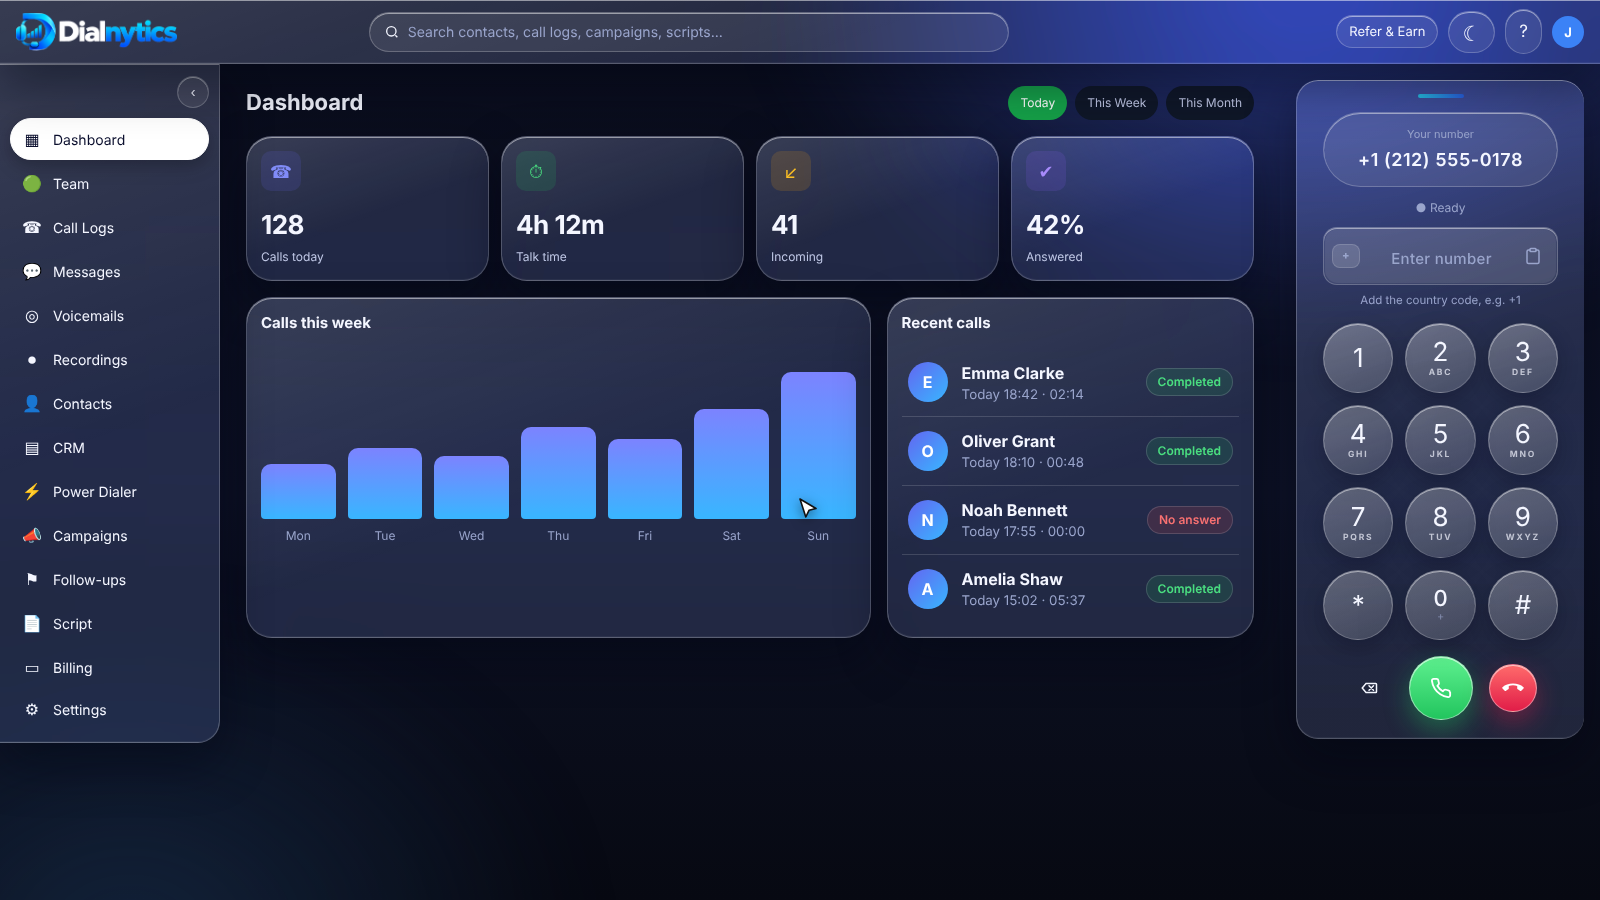
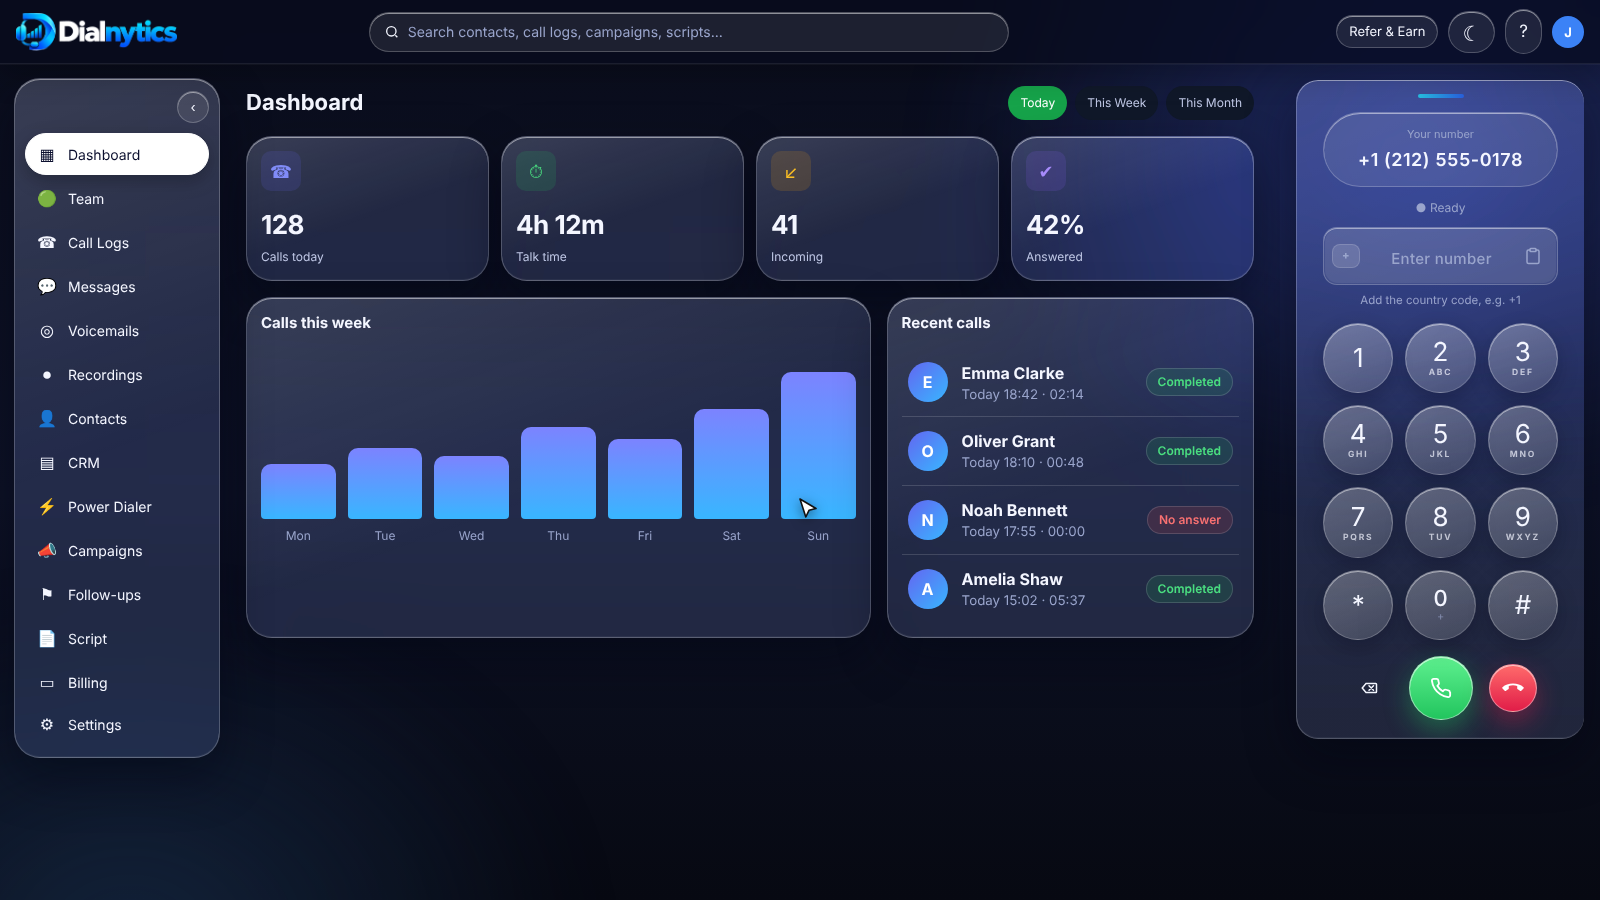
Add files via upload

Changed region(s): [[0.0, 0.0, 1.0, 0.84], [0.8125, 0.1867, 1.0, 0.4356]]

diff --git a/Dialnytics/frontend/static/css/glass.css b/Dialnytics/frontend/static/css/glass.css
@@ -337,3 +337,13 @@ body.glass-ui .dial-rail .your-number{border-radius:999px !important}
   body.glass-ui .dial-rail #dialPad .dial-btn{-webkit-backdrop-filter:none;backdrop-filter:none;background:rgba(40,48,90,.95) !important}
   body.glass-ui.light-theme .dial-rail #dialPad .dial-btn{background:#fff !important}
 }
+
+/* v4.1: calmer header (no blue band, logo readable) + floating sidebar card */
+body.glass-ui .shell-top{background-color:rgba(9,12,26,.78) !important;background-image:none !important;
+  border-bottom:1px solid rgba(255,255,255,.08) !important;box-shadow:0 1px 0 rgba(255,255,255,.04),0 10px 30px rgba(0,0,0,.25) !important}
+body.glass-ui.light-theme .shell-top{background-color:rgba(255,255,255,.82) !important;border-bottom:1px solid rgba(16,22,58,.06) !important;box-shadow:0 10px 30px rgba(40,50,120,.08) !important}
+body.glass-ui::before{top:-200px;right:-320px;width:1000px;height:700px;opacity:.32}
+body.glass-ui.light-theme::before{opacity:.45}
+@media (min-width:1025px){
+  body.glass-ui .shell-nav{margin:14px 0 14px 14px;border-radius:26px !important;border:1px solid var(--g-line) !important;align-self:start}
+}

diff --git a/Dialnytics/frontend/templates/base.html b/Dialnytics/frontend/templates/base.html
@@ -9,7 +9,7 @@
     <link rel="icon" href="{{ brand_icon }}">
     <link rel="stylesheet" href="/static/css/style.css">
     <link rel="stylesheet" href="/static/css/buttons.css?v=1">
-    <link rel="stylesheet" href="/static/css/glass.css?v=4">
+    <link rel="stylesheet" href="/static/css/glass.css?v=5">
     <link href="https://fonts.googleapis.com/css2?family=Inter:wght@400;500;600;700&display=swap" rel="stylesheet">
     <script src="/static/js/csrf.js"></script>
     <script src="/static/js/page-nav.js"></script>
